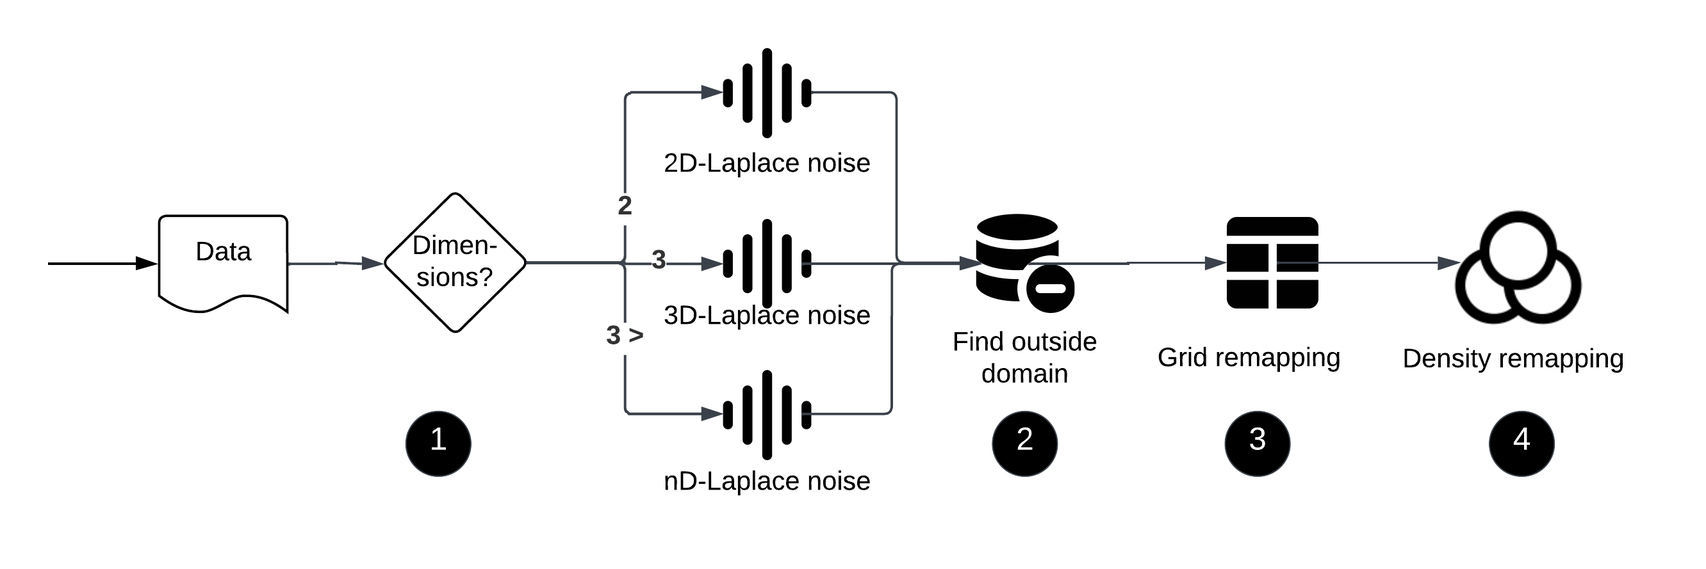
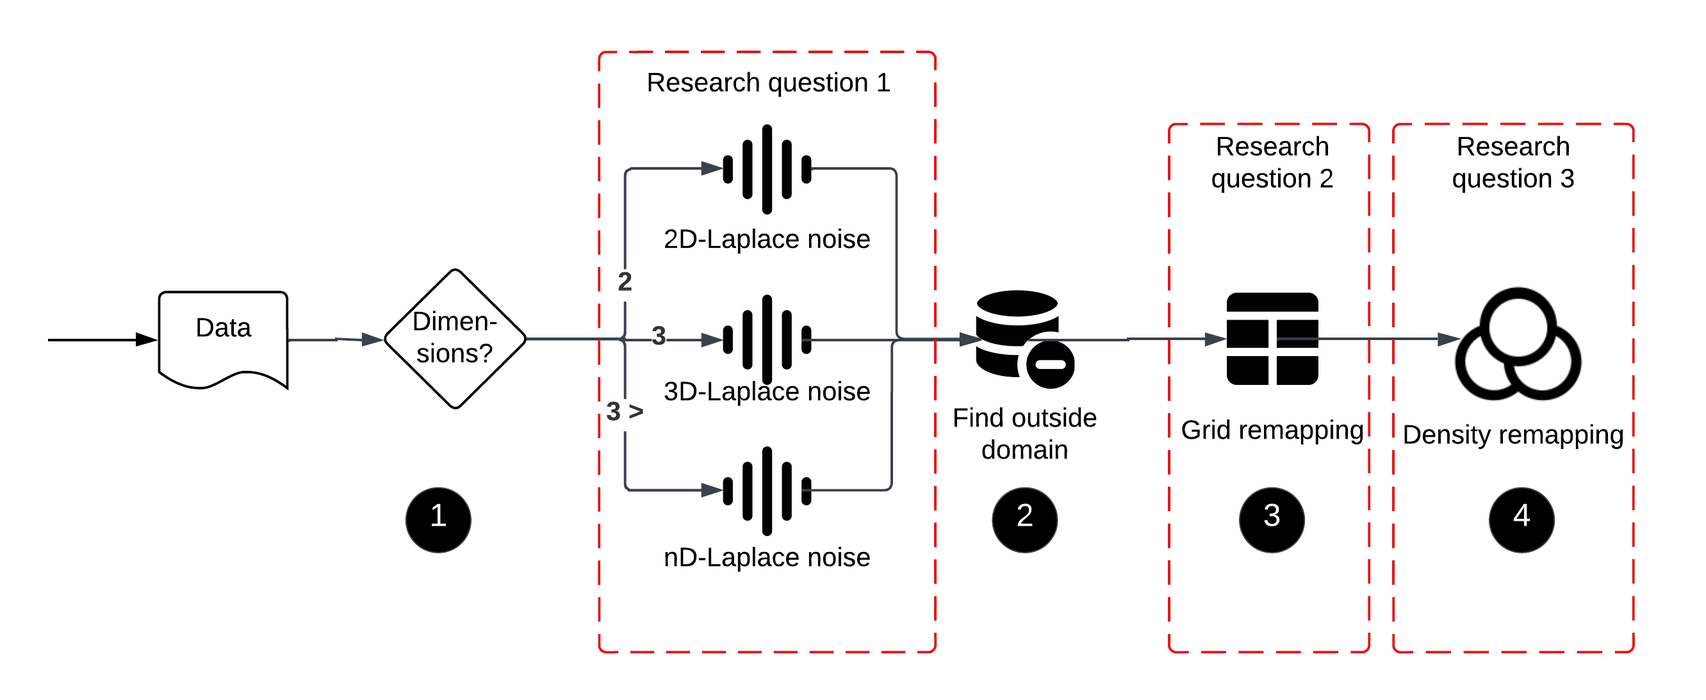
wip

diff --git a/Discussion/discussion.tex b/Discussion/discussion.tex
@@ -1,38 +1,38 @@
 \chapter{Discussion}
-For each result, we have included an interpretation and discussion. This section summarizes these findings and suggests future research directions.
-Our study involved a series of experiments to assess the utility and privacy attributes of the nD-Laplace mechanism in comparison to the Piecewise mechanism. We employed five datasets in our analysis, two of which are real-world datasets: seeds-dataset and heart-dataset. The remaining three, Circle, Line, and Skewed, are synthetic datasets crafted to evaluate the performance of nD-Laplace.
+For each result, we include an interpretation and discussion. This section summarizes these findings and suggests future research directions.
+Our study involved a series of experiments to assess the utility and privacy attributes of the nD-Laplace mechanism compared to the Piecewise mechanism. We employed five datasets in our analysis, two of which are real-world datasets: seeds-dataset and heart-dataset. The remaining three, Circle, Line, and Skewed, are synthetic datasets crafted to evaluate the performance of nD-Laplace.
 
 Our initial focus was on the utility of three clustering algorithms: K-Means, \gls{ag}, and \gls{optics}. We then delved deeper to discern the disparities between the Piecewise mechanism and nD-Laplace, examining both in terms of utility—using internal (\gls{sc}) and external (\gls{ami}) validation—and privacy, with an emphasis on metrics like membership advantage and \gls{tpr}. A subsequent experiment incorporated the variants of nD-Laplace, using the same evaluation metrics.
 
-To ensure reproducibility, our research was conducted using Jupyter notebook. We also employed a version control system (git) to store all datasets, safeguarding against any external alterations that might skew the results. For robustness, each experiment was repeated 10 times, and the average result was considered. 
+To ensure reproducibility, our research was conducted using a Jupyter notebook. We also used a version control system (git) to store all datasets, safeguarding against any external alterations that might skew the results. For robustness, each experiment was repeated 10 times, and the average result was considered. 
 
-Our findings underline the significant influence of the privacy budget on the utility and privacy of nD-Laplace. As the privacy budget increases, utility improves, but at the cost of reduced privacy. This observation is consistent with existing literature \citep{sun_distributed_2019, xia_distributed_2020, 9679364}. \newline
+Our findings underline the significant influence of the privacy budget on the utility and privacy of nD-Laplace. As the privacy budget increases, utility improves, but at the cost of reduced privacy. This observation is consistent with the existing literature \citep{sun_distributed_2019, xia_distributed_2020, 9679364}. \newline
 
-In comparing nD-Laplace with the Piecewise mechanism, it was clear that nD-Laplace excelled with the heart-dataset, seeds-dataset, and skewed dataset, particularly when evaluated using K-Means and \gls{ag} clustering \gls{ami} scores. However, its performance was subpar for the line-dataset and circle dataset. Also, the \gls{optics} yielded a notably low \gls{ami} score.
+In comparing nD-Laplace with the Piecewise mechanism, it was clear that nD-Laplace excelled with the heart data set, seeds data set and skewed data set, particularly when evaluated using K-Means and \gls{ag} clustering \gls{ami} scores. However, its performance was subpar for the line-dataset and circle dataset. Also, \gls{optics} yielded a notably low \gls{ami} score.
 
-Dimensionality had a marginal effect on the utility and privacy for the seeds and heart-dataset. The most significant outcome was observed for the top two dimensions, which demonstrated a minor increase in \gls{ami}, suggesting enhanced utility with increased dimensions.  This might be due to our observation for the hypersphere volume (See Section: \ref{theory:privacy-utility-nd}), where we stated the possibility of a increased utility for 7 > dimensions. This would need further investigation to tell for sure.
-Also, the enhancement in utility did not translate to a corresponding increase in privacy. \newpage
+Dimensionality had a marginal effect on the utility and privacy for the seeds and heart-dataset. The most significant outcome was observed for the top two dimensions, which demonstrated a minor increase in \gls{ami}, suggesting enhanced utility with increased dimensions.  This might be due to our observation for the hypersphere volume (see Section: \ref{theory:privacy-utility-nd}), where we stated the possibility of an increased utility for 7 > dimensions. This would need further investigation to know for sure.
+In addition, the enhancement in utility did not translate into a corresponding increase in privacy. \newpage
 
-In our concluding experiments, we delved into the details of the nD-Laplace mechanism by examining its variants: grid-nD-Laplace and density-nD-Laplace. The primary objective of these variants is to ensure that data processed by nD-Laplace remains confined within its original domain.
+In our concluding experiments, we delved into the details of the nD-Laplace mechanism by examining its variants: grid-nD-Laplace and density-nD-Laplace. The primary objective of these variants is to ensure that the data processed by nD-Laplace remain confined within its original domain.
 
-Drawing from existing literature, we recognized the criticality of employing a remapping or truncation method. Without such a method, data with a low epsilon value risks being plotted outside its original domain. This deviation can potentially provide attackers with an advantage, enabling them to infer whether the data is part (member) of the original dataset.
+Drawing from existing literature, we recognized the criticality of employing a remapping or truncation method. Without such a method, data with a low epsilon value risk being plotted outside its original domain. This deviation can potentially provide attackers with an advantage, enabling them to infer whether the data is part (member) of the original dataset.
 
-Our empirical findings agreed on these findings. Specifically, when operating with a constrained privacy budget, we observed a clear drop in membership advantage, plummeting to values even lower than -50. While this decline was anticipated, its magnitude was surprising. A deeper dive revealed that this steep decline could be attributed to the membership advantage metric itself, which, as highlighted in our literature review, has certain inherent limitations. Contrary to the pattern suggested by the membership advantage, the underlying \gls{tpr} was considerably high, especially unexpected for a lower privacy budget. This anomaly was notably absent, or at least less pronounced, in the nD-Laplace variants. 
+Our empirical findings agreed on these findings. Specifically, when operating with a limited privacy budget, we observed a clear drop in membership advantage, plummeting to values even lower than -50. While this decline was anticipated, its magnitude was surprising. A deeper dive revealed that this steep decline could be attributed to the membership advantage metric itself, which, as highlighted in our review of the literature, has certain inherent limitations. Contrary to the pattern suggested by the membership advantage, the underlying \gls{tpr} was considerably high, especially unexpected for a lower privacy budget. This anomaly was notably absent, or at least less pronounced, in the nD-Laplace variants. 
 
 The high \gls{tpr} for lower privacy budgets can be attributed to the fact that, for an epsilon value of 0.5, data points were plotted significantly outside the original domain. Our empirical findings thus emphasize the necessity, also echoed in the literature, of addressing this issue. Both nD-Laplace and Piecewise mechanisms would likely exhibit these shortcomings in practical settings.
 
-The two variants, grid-nD-Laplace and density-nD-Laplace, have demonstrated their capability to mitigate this issue in practice. Grid-nD-Laplace, in particular, showcased more stable results, with its privacy and utility metrics aligning closely with those of nD-Laplace. We introduced density-nD-Laplace to address the nD-Laplace mechanism's sensitivity to data shapes. However, it fell short in practice, particularly with the Line and Circle datasets.
+The two variants, grid-nD-Laplace and density-nD-Laplace, have demonstrated their ability to mitigate this issue in practice. Grid-nD-Laplace, in particular, showcased more stable results, with its privacy and utility metrics aligning closely with those of nD-Laplace. We introduced density-nD-Laplace to address the sensitivity of the nD-Laplace mechanism to data shapes. However, it fell short in practice, particularly with the Line and Circle datasets.
 
 \section{Constraints}
-We encountered challenges with \gls{optics} clustering algorithm.
-Our analysis revealed a higher number of clusters for \gls{optics} compared to K-Means and \gls{ag}. Additionally, a significant portion of data points were labeled as noise. This suggests potential issues with the configuration of \gls{optics}, particularly the $minPts$ parameter. Despite these configuration issues, the Piecewise mechanism still outperformed nD-Laplace in certain scenarios, likely due to its ability to handle dense data shapes.
+We encountered challenges with the \gls{optics} clustering algorithm.
+Our analysis revealed a higher number of clusters for \gls{optics} compared to K-Means and \gls{ag}. Additionally, a significant portion of the data points were labeled as noise. This suggests potential issues with the configuration of \gls{optics}, particularly the $minPts$ parameter. Despite these configuration issues, the Piecewise mechanism still outperformed nD-Laplace in certain scenarios, likely because of its ability to handle dense data shapes.
 % \todo[inline]{Selection of features for 2d/3d heart-dataset \& seedsdataset might have impact}
 \section{Future work}
-The nD-Laplace mechanism, based on our findings, holds promise for clustering applications. While it showcases distinct advantages and disadvantages compared to the Piecewise mechanism, there's room for improvement, especially in handling diverse data forms. To further its practical applicability, we propose the following research directions:
+The nD-Laplace mechanism, based on our findings, holds promise for clustering applications. While it showcases distinct advantages and disadvantages compared to the Piecewise mechanism, there is room for improvement, especially in handling diverse data forms. To further its practical applicability, we propose the following research directions:
 
 \begin{enumerate}
 \item \textbf{Examine diverse data shapes}: nD-Laplace's practicality hinges on its adaptability to various data shapes. Given its current limitations with certain datasets, directed noise introduction, as opposed to uniform noise distribution, might offer a solution.
-\item \textbf{Dimensionality in synthetic datasets}: Our current study limits dimensionality to 7 and 9 for certain datasets. Expanding this to higher dimensions, especially for synthetic datasets, could provide deeper insights.
+\item \textbf{Dimensionality in synthetic datasets}: Our current study limits the dimensionality to 7 and 9 for certain datasets. Expanding this to higher dimensions, especially for synthetic datasets, could provide deeper insights.
 \item \textbf{Explore higher dimensions}: With observed improvements in utility beyond 7 dimensions, it's worth investigating data with 20+ dimensions .
 \item \textbf{Incorporate categorical and binary data}: Enhancing nD-Laplace to support these data types, similar to the Piecewise mechanism, can broaden its practical applicability. 
 \end{enumerate}

diff --git a/TheorethicalFramework/clustering.tex b/TheorethicalFramework/clustering.tex
@@ -83,11 +83,12 @@ The specific implementation and calculation of the closeness of data-points, dep
 For this function, there are four popular options: Single link, Average link, Complete link, and Ward's method \citep{roux_comparative_2015}. In the next section we evaluate this to choose the most fitting option.
 
 \subsubsection{Research direction}
-There are three different types of clustering algorithms that we have considered for this research.
-Therefore, we will choose one algorithm for each type to ensure a representative selection.
+\replaced{In the previous sections, three types of cluster algorithms have been introduced, each related to distance. For each type, the most popular algorithms have been explained, and to arrive at a representative selection, one algorithm from each type is chosen for use in the research.}
+{There are three different types of clustering algorithms that we have considered for this research.
+Therefore, we will choose one algorithm for each type to ensure a representative selection.}
 
 Based on the different types of clustering algorithms, we have chosen to use K-Means for this research.
-K-Mean clustering is widely used in the literature and, therefore, easily compared with other studies.
+K-Means clustering is widely used in the literature and, therefore, easily compared with other studies.
 
 For density-based clustering, we will solely focus on \gls{optics} in this study.
 The parameter $\Pi$ in \gls{dbscan} is influenced by the data shape, which is further affected by our privacy mechanism.
@@ -100,10 +101,10 @@ As for hierarchical clustering, we have decided to go for agglomerative clusteri
 %The algorithm calculates the local density of each data point and identifies density peaks for points with the highest density [Rodriguez and Laio, 2014].
 
 \subsection{Parameter selection}
-A list of important hyper parameters that can influence the results is provided for each clustering algorithm.
-Subsequently, we briefly discuss the methods for determining these hyper parameters for the algorithms. \newline
+A list of important hyper parameters that can influence the results is provided for each clustering algorithm. \replaced{Subsequently, methods for determining these hyper parameters for the algorithms are briefly discussed. The same distance function is employed for all algorithms to maintain a consistent setting. The chosen function is Euclidean distance, as utilized for \gls{gi}.}
+{Subsequently, we briefly discuss the methods for determining these hyper parameters for the algorithms. \newline
 We use the same distance function for all algorithms to have all the algorithms in the same setting.
-This function will be Euclidean distance, as used for \gls{gi}.
+This function will be Euclidean distance, as used for \gls{gi}.}
 \subsubsection{K-Means} \label{theory:kmeans}
 The most crucial parameter of the K-Means algorithm is the value of $k$.
 This value determines the number of clusters to consider and influences the results by a lot \citep{ahmed_k-means_2020}.
@@ -152,7 +153,7 @@ Therefore, the approach is similar to K-Means.
 The amount of clusters is selected based on the silhouette method, by selecting the highest silhouette score for a given $k$.
 
 \subsubsection{OPTICS} \label{theory:clustering-dbscan}
-With the introduction of \gls{optics}, we no longer need to worry about the $radius(\epsilon)$ value.
+With the introduction of \gls{optics}, we no longer need to worry about the \replaced{$\Pi$}{$radius(\epsilon)$} value.
 Therefore, only $minPts$ remains an important parameter to consider. \newline
 %\todo[inline]{Use OPTICS instead of DBSCAN}
 %\gls{dbscan} is introduced by \citep{ester_density-based_nodate} and draws a radius (neighborhood) around data points.
@@ -160,15 +161,17 @@ Therefore, only $minPts$ remains an important parameter to consider. \newline
 %The \gls{dbscan} algorithm uses the inputs $minPts$, $radius(\epsilon)$ (not to be confused with the privacy budget $\epsilon$), and the Euclidean distance \citep{schubert_dbscan_2017}.
 %This $\epsilon'$ is used to draw a neighborhood, and the $minPts$ is used as a weight to evaluate which points should be inside the neighborhood.
 %The Euclidean distance is used for the distance function to be consistent with the other algorithms. \newline
-The $minPts$ is the minimum amount of points that have to be within the $radius(\epsilon)$ to mark it a cluster.
+The $minPts$ is the minimum amount of points that have to be within the \replaced{$\Pi$}{$radius(\epsilon)$} to mark it a cluster.
 This hyperparameter is analyzed in a paper by Sander et al.
 The work describes calculating this parameter by applying two times the feature amount \citep{sander_density-based_1998}.
 So, using this approach, a dataset with two features will have an $minPts$ of four \citep{schubert_dbscan_2017}.
 
 %In conclusion, K-Means and \gls{ap} have straightforward methods for determining hyperparameters.
 %For K-Means, the elbow method is the most common, and for \gls{ap}, the median is used for the preference.
-\gls{dbscan} is a little more complicated due to the variety of datasets and noise-altering mechanisms we experiment with.
-This complexity is why we use \gls{optics} to determine the best value for $radius(\epsilon)$ and choose $minPts$ based on the number of features times two.
+\replaced{The extensive use of noise-altering mechanisms and distinct data sets in this study makes the application of \gls{dbscan} difficult.
+It cannot be ruled out that the hyper parameters have an effect on the results, as this algorithm is highly dependent on the distance between data points.
+This is why the \gls{optics} algorithm is used to calculate $\Pi$.}{ \gls{dbscan} is a little more complicated due to the variety of datasets and noise-altering mechanisms we experiment with.
+This complexity is why we use \gls{optics} to determine the best value for $radius(\epsilon)$ and choose $minPts$ based on the number of features times two.}
 
 \subsection{Evaluation methods} \label{theory:evaluate}
 Clustering comparison measures are important in cluster analysis for external validation by comparing clustering solutions to a "ground truth" clustering \citep{vinh_information_nodate}.

diff --git a/Chapter1/introduction.tex b/Chapter1/introduction.tex
@@ -27,7 +27,7 @@ This makes the noise more significant, impacting the data utility \citep{yang_lo
 
 \newpage
 
-\subsection*{Related work}
+\subsection*{\replaced{Research context}{Related work}}
 %\todo[inline]{Tell something about other mechanisms}
 Preserving utility in clustering while ensuring privacy is a well-known challenge in the existing literature.
 Previous studies have attempted to address this issue, with some focusing on preserving cluster shapes by sending feature distance information to the server rather than the feature values \citep{sun_distributed_2019}.
@@ -61,7 +61,7 @@ Our contribution to the current literature is as follows:
 \begin{enumerate}
   \item We aim to create a new privacy framework named nD-Laplace using the three variants of Laplace to train privacy-preserving clustering algorithms on distributed n-dimensional data.
   \item In addition to K-means, we also demonstrate the working of our method on multiple other clustering algorithms.
-  \item We introduce different optimization techniques to improve the utility of nD-Laplace using nD-tree.
+  \item We introduce different optimization techniques to improve the utility of nD-Laplace using kd-tree.
   \item We demonstrate the effectiveness and privacy of nD-Laplace using real-world datasets and attacks.
 \end{enumerate}
 
@@ -69,9 +69,12 @@ Our contribution to the current literature is as follows:
 To reach our goals and objectives, we have formulated the following main question: \newline \newline
 \textit{"How can the nD-Laplace mechanism be applied in training privacy-preserving clustering algorithms on distributed n-dimensional data?"} \newline
 
-Much literature is consulted to answer this research question, and we experiment extensively to gather enough qualitative data.
-Both external and internal validation methods are employed to assess the utility and privacy of the privacy mechanism.
-The qualitative data from these experiments are analyzed to compare the different privacy mechanisms and their performance concerning clustering tasks.
+\replaced{We review a significant amount of existing literature to address our research question and gather qualitative data for analysis. 
+To acquire this qualitative data, we conduct a series of experiments that include both cluster utility and mechanism utility/privacy. These experiments are conducted using real-world datasets and synthetic datasets.
+
+In order to ensure a comprehensive evaluation of utility, we utilize a combination of external and internal validation methods. For evaluating privacy we focus on real-world attacks to acquire quantitative information about the privacy for our mechanism.
+By carefully analyzing the qualitative data from these experiments, we conduct a detailed comparison of various privacy mechanisms for both clustering and mechanism performance.}
+{Much literature is consulted to answer this research question, and we experiment extensively to gather enough qualitative data. Both external and internal validation methods are employed to assess the utility and privacy of the privacy mechanism. The qualitative data from these experiments are analyzed to compare the different privacy mechanisms and their performance concerning clustering tasks.}
 
 \subsection*{Roadmap}
 The first chapter is devoted to literature study and review.

diff --git a/TheorethicalFramework/ND-Laplace/nd-laplace.tex b/TheorethicalFramework/ND-Laplace/nd-laplace.tex
@@ -1,5 +1,5 @@
 \chapter{nD-Laplace}
-In this chapter, we delve deeper into geo-indistinguishability and the various mechanisms that work with it.
+In this chapter, we delve deeper into geo-indistinguishability and the various mechanisms that work with it, \added{and aim to provide the theoretical foundation for research questions 1, 2 and 3.}
 We also explain the theory behind the nD-Laplace mechanism and how we modify it and apply it for clustering.
 %This explanation is build-up out of several sections, each dedicated to 2, 3, and n-dimensional data.
 Because we frequently discuss 2, 3, and dimensional data in our thesis, we decided to prefix the respective Laplace method with this information.
@@ -9,7 +9,7 @@ Therefore, for the rest of the thesis, we use the following names:
   \item 3D-Laplace: This refers to the spherical Laplace mechanism \citep{9646489}.
   \item nD-Laplace
 \end{enumerate}
-For each mechanism, we explain the equation for \gls{gi}, the mechanism, and the data truncation.
+\replaced{The theory, mechanism, and data truncation are explained for each section. In addition, an explanation is provided when a section relates directly to a research question.}{For each mechanism, we explain the equation for \gls{gi}, the mechanism, and the data truncation.}
 
 \printnomenclature
 
@@ -63,16 +63,19 @@ The formula is provided by Fernandes et al. to convert $r$ to spherical coordina
 
 The combination of sections 1 and 2 of this chapter provides a good overview of the solution using a similar image as the 2D and 3D variants (figure \ref{fig:nd-laplace-overview}).
 \begin{figure}[H]
-  \includesvg[width=0.6\textwidth]{TheorethicalFramework/ND-Laplace/Images/nd_laplace}
+   \centering
+  \includesvg[width=0.8\textwidth]{TheorethicalFramework/ND-Laplace/Images/nd_laplace}
   \caption{Overview of the nD-Laplace mechanism}
   \label{fig:nd-laplace-overview}
 \end{figure}
+\todo[inline]{Update image with other notation and add explanation}
 \newpage
 \subsection{Privacy versus utility} \label{theory:privacy-utility-nd}
 When we specifically look at the \(uniform^n(\theta)\) function (see Equation: \ref{eq:generate_theta_for_nd_laplace}), the \(\theta\) can be generated \(n\)-times, but this has some limitation \footnote{\url{https://mathworld.wolfram.com/Hypersphere.html}}.
 The value of \(\theta\) decreases after the $\approx 7$ dimensions have been reached. Subsequently, the hyper-surface area reaches a maximum, so the value of $\theta$ decreases towards 0 \footnote{\url{https://mathworld.wolfram.com/Hypersphere.html}}
 This behaviour is illustrated in the following figure:
 \begin{figure}[H]
+\centering
   \includegraphics[width=0.8\textwidth]{TheorethicalFramework/ND-Laplace/Images/volume.png}
   \caption{Illustration of the decreasing volume while increasing the number of dimensions}
   \label{fig:curse-of-dimensionality}

diff --git a/TheorethicalFramework/ND-Laplace/3d-laplace.tex b/TheorethicalFramework/ND-Laplace/3d-laplace.tex
@@ -31,7 +31,6 @@ Because these can be sampled independently, Min et al. formulate three marginal 
 %This sphere is a unit sphere calculated with a radius of 1. \newline
 %\textbf{Calculating $\theta$ and $\psi$}: The tuple $U = (\theta, \psi)$ is randomly drawn from the unit sphere using the following equations \citep{9646489}:
 \begin{subequations}
-
   \begin{align}
      & D_\epsilon, R(r) = \frac{1}{2} \epsilon^3 \cdot r^2 \cdot e^{-\epsilon \cdot r} \label{eq:3d-laplace-1} \\
      & D_\epsilon, \Theta(\theta) = \frac{1}{\pi}                                      \label{eq:3d-laplace-2} \\
@@ -59,7 +58,7 @@ The above figure shows the whole process of generating noise for a single point 
 As observed, the noise is generated using a sphere and converted to a cartesian coordinate system.
 \newpage
 \begin{figure}[H]
-  \includegraphics[width=0.6\textwidth]{TheorethicalFramework/ND-Laplace/Images/3d_laplace_noise.png}
+  \includegraphics[width=1\textwidth]{TheorethicalFramework/ND-Laplace/Images/3d_laplace_noise.png}
   \caption{50 random noise samples generated around point $x_0$ (green dot) using the 3D-Laplace noise method \citep{9646489} plotted on a sphere.}
   \label{fig:3d-laplace-noise}
 \end{figure}
@@ -85,7 +84,7 @@ So, the complete probability for a point $x_0$ being generated by the 3D-Laplace
 Here, $Z$ is the discrete set of points of $X$ generated according to the 3D-Laplace mechanism.
 According to the mechanism, $Z$ depends on the radial distance $r$, but now also needs to consider $G_c$.
 The latter stays the same size, while the radius $r$ differs according to \ref{eq:3d-laplace-1}.
-This jeopardizes geo-indistinguishability, and therefore Min et al. provided a modified version of Theorem \ref{theorem:discretization} to support 3-dimensional data \citep{9646489}.
+This jeopardizes \replaced{\gls{gi}}{geo-indistinguishability,} and therefore Min et al. provided a modified version of Theorem \ref{theorem:discretization} to support 3-dimensional data \citep{9646489}.
 They define the cuboid $G_c$ using the units $u, w, h$ (length, width, and height).
 The theorem provided by Min et al. satisfies \gls{gi} for the maximum radius of $r_M$ \citep{9646489}:
 \begin{theorem}

diff --git a/TheorethicalFramework/ND-Laplace/2d-laplace.tex b/TheorethicalFramework/ND-Laplace/2d-laplace.tex
@@ -49,6 +49,7 @@ The other variable ($\theta$) is defined as a random number $[0, 2\pi]$. \newlin
 To visualize the data, it is necessary to convert the polar coordinates for $z = (r, \theta)$ back to planar coordinates $z = (x, y)$.
 This conversion is described as step 4 of the planar Laplace algorithm \citep{DBLP:journals/corr/abs-1212-1984} and visualized using figure \ref{figure:geo}.
 \begin{figure}[h]
+    \centering
   \includesvg[width=0.8\textwidth]{TheorethicalFramework/ND-Laplace/Images/polar-laplace-to-planar.svg}
   \centering
   \caption{Representation of converting the perturbed point $z = (r, \theta)$ to a point ${z_x, z_y}$}
@@ -62,6 +63,7 @@ If this is not the case, the data is easily distinguished by an unwanted adversa
 The truncation is an essential part of the mechanism to ensure the data is contained within the domain of the original data $X$.
 %We assume a user has a set of data points with a range of [-1, 1].
 \begin{figure}[H]
+\centering
   \includegraphics[width=0.7\textwidth]{TheorethicalFramework/ND-Laplace/Images/remapping.png}
   \caption{Representation of truncation of data points for 2-dimensional Laplace mechanism.}
   \label{figure:truncation-2d}
@@ -80,7 +82,7 @@ The original \gls{gi} definition contains $K$, which is the probability of $z$ b
 However, this probability is no longer guaranteed because $z$ can also be part of $G$ \citep{DBLP:journals/corr/abs-1212-1984}.
 Hence the probability is now $R_X(x) = R(x) \cup X$. \newline
 So, the $R_X(x)$ has a different shape depending on the distance $x_0$ and $x'$ (ergo, it depends on the grid cell width). This is due the step units of $G$ stay the same, while the distance $r$ grows \citep{DBLP:journals/corr/abs-1212-1984}.
-\newpage
+
 To overcome this issue, Andres et al. propose a way of calculating $\epsilon'$, depending on the step-unit $u$. \citep{DBLP:journals/corr/abs-1212-1984}.
 They proved this in theorem 4.1 \citep{DBLP:journals/corr/abs-1212-1984}:
 \begin{theorem}[Discretization 2D-Laplace]

diff --git a/Results/results.tex b/Results/results.tex
@@ -481,14 +481,14 @@ The low membership advantage for the nD-Laplace mechanism is noteworthy, given i
   \begin{subfigure}[b]{0.9\textwidth}
     \begin{subfigure}[c]{1\textwidth}
       \caption{\textbf{Heatmap TPR for the nD-Laplace mechanism, per privacy budget \& dimension for skewed-dataset.}}
-      \includegraphics[width=1\textwidth]{Results/kd-laplace/kd-Laplace/skewed-dataset/tpr.png}
+      \includegraphics[width=1\textwidth]{Results/nd-laplace/nd-Laplace/skewed-dataset/tpr.png}
       \label{fig:privacy_tpr_skewed-dataset_adversial_advantage_kd-laplace}
     \end{subfigure}
     \vfill % vertical space
 
     \begin{subfigure}[c]{1\textwidth}
       \caption{\textbf{Heatmap TPR for the Piecewise mechanism, per privacy budget \& dimension for skewed-dataset.}}
-      \includegraphics[width=1\textwidth]{Results/kd-laplace/piecewise/skewed-dataset/tpr.png}
+      \includegraphics[width=1\textwidth]{Results/nd-laplace/piecewise/skewed-dataset/tpr.png}
       \label{fig:privacy_tpr_skewed-dataset_adversial_advantage_piecewise}
     \end{subfigure}
   \end{subfigure}

diff --git a/TheorethicalFramework/ND-Laplace/mechanism-design.tex b/TheorethicalFramework/ND-Laplace/mechanism-design.tex
@@ -1,7 +1,7 @@
 \subsection{Mechanism flowchart}
 All formulas and theories are established for 2D, 3D, and nD-Laplace, so the mechanism design applies to all three variants:
 \begin{figure}[h]
-  \includegraphics[width=1.1\textwidth]{TheorethicalFramework/ND-Laplace/Images/final-mechanism-design.png}
+  \includegraphics[width=1.1\textwidth]{TheorethicalFramework//ND-Laplace//Images/final-mechanism-design.png}
   \caption{Non-interactive mechanism design for nD-Laplace.}
   \label{fig:final-mechanism-design}
 \end{figure}

diff --git a/report.tex b/report.tex
@@ -101,7 +101,7 @@
 \input{glossary/glossary.tex}
 \mainmatter
 \pagenumbering{arabic}
-
+\input{Summary/summary}
 \input{Chapter1/introduction.tex}
 
 \input{TheorethicalFramework/theory.tex}

diff --git a/Summary/summary.tex b/Summary/summary.tex
@@ -1,0 +1,1 @@
+\chapter{Summary}
